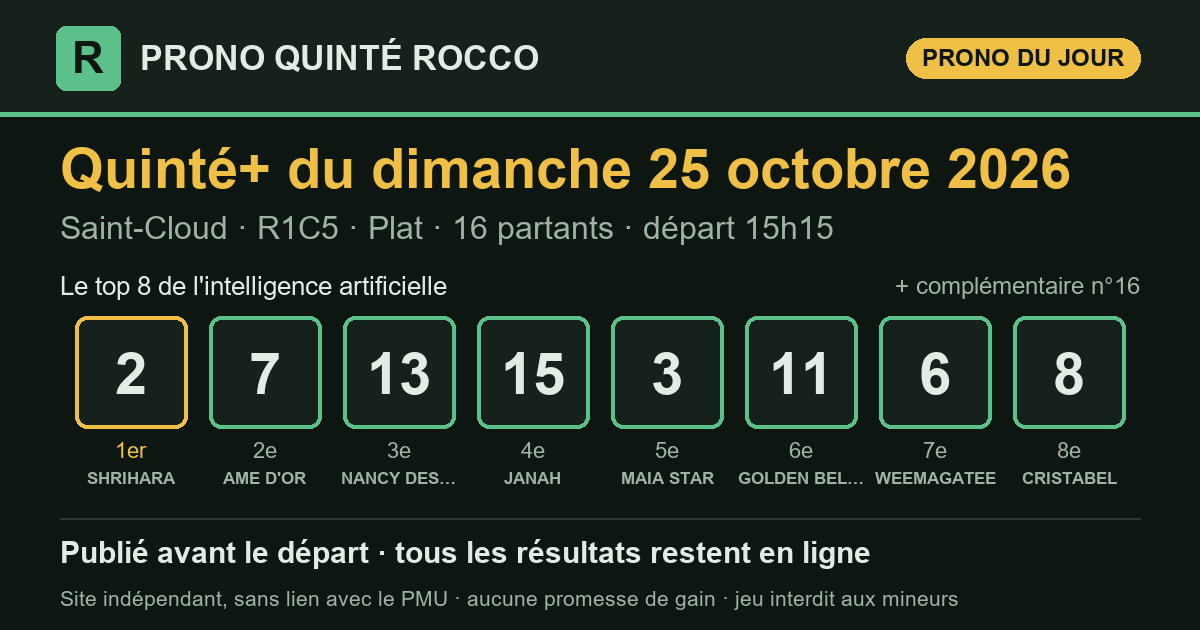
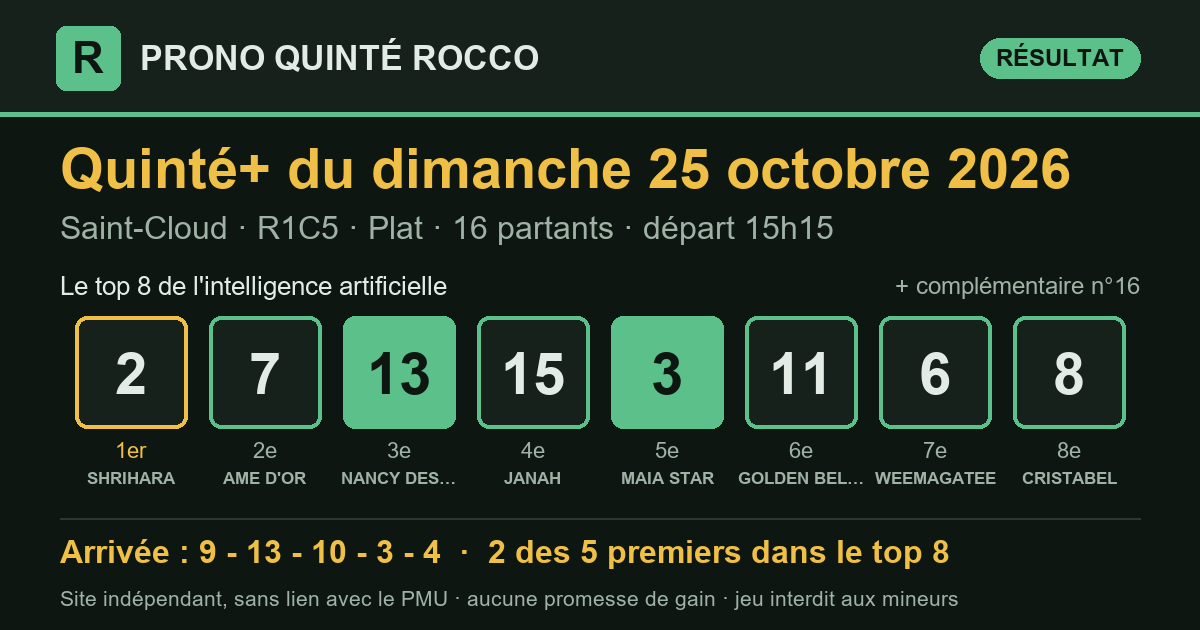
Prono Quinté+ 2026-10-25 Saint-Cloud R1C5 — publié le 25/10/2026 15:25 (heure de Paris)

diff --git a/index.html b/index.html
@@ -16,7 +16,7 @@
 <meta property="og:title" content="Pronostic Quinté+ du dimanche 25 octobre 2026 — Prono Quinté Rocco">
 <meta property="og:description" content="Le pronostic du Quinté+ par intelligence artificielle, publié avant le départ, avec tous les résultats et le rendement réel.">
 <meta property="og:url" content="https://prono-quinte-rocco.fr/">
-<meta property="og:image" content="https://prono-quinte-rocco.fr/partage/2026-10-25.png?v=82f0f066">
+<meta property="og:image" content="https://prono-quinte-rocco.fr/partage/2026-10-25.png?v=1134d1c6">
 <meta property="og:image:type" content="image/png">
 <meta property="og:image:width" content="1200">
 <meta property="og:image:height" content="630">
@@ -31,15 +31,15 @@
 </header>
 <main>
 <section class="une" aria-labelledby="t-jour">
-  <p class="surtitre">Quinté+ du jour</p>
+  <p class="surtitre">Dernier Quinté+</p>
   <h1 id="t-jour">Le prono du Quinté+, résultats compris</h1>
   <p class="chapo">Chaque matin, une intelligence artificielle classe les partants du
   Quinté+. Le classement est publié avant le départ, puis comparé à l'arrivée
   officielle. Tous les résultats restent en ligne, les bons comme les mauvais.</p>
   <article class="carte-course">
-  <div class="tete"><h2>Dimanche 25 octobre 2026</h2><span class="etat attente">arrivée en attente</span></div>
+  <div class="tete"><h2>Dimanche 25 octobre 2026</h2><span class="etat place">2 des 5 premiers dans le top 8</span></div>
   <p class="meta">Saint-Cloud · <strong>R1C5</strong> · Plat · 16 partants · lisibilité <span class="note" aria-label="note 2 sur 5"><i class="on"></i><i class="on"></i><i class=""></i><i class=""></i><i class=""></i></span> 2/5</p>
-  <ol class="partants" aria-label="Classement du prono"><li><span class="rang">1<sup>er</sup></span><span class="tapis ">2</span><span class="nom">SHRIHARA</span></li><li><span class="rang">2<sup>e</sup></span><span class="tapis ">7</span><span class="nom">AME D&#x27;OR</span></li><li><span class="rang">3<sup>e</sup></span><span class="tapis ">13</span><span class="nom">NANCY DES PLACES</span></li><li><span class="rang">4<sup>e</sup></span><span class="tapis ">15</span><span class="nom">JANAH</span></li><li><span class="rang">5<sup>e</sup></span><span class="tapis ">3</span><span class="nom">MAIA STAR</span></li><li><span class="rang">6<sup>e</sup></span><span class="tapis ">11</span><span class="nom">GOLDEN BELLE</span></li><li><span class="rang">7<sup>e</sup></span><span class="tapis ">6</span><span class="nom">WEEMAGATEE</span></li><li><span class="rang">8<sup>e</sup></span><span class="tapis ">8</span><span class="nom">CRISTABEL</span></li><li><span class="rang">compl.</span><span class="tapis creux">16</span><span class="nom">GAREYA</span></li></ol>
+  <ol class="partants" aria-label="Classement du prono"><li><span class="rang">1<sup>er</sup></span><span class="tapis ">2</span><span class="nom">SHRIHARA</span></li><li><span class="rang">2<sup>e</sup></span><span class="tapis ">7</span><span class="nom">AME D&#x27;OR</span></li><li><span class="rang">3<sup>e</sup></span><span class="tapis plein">13</span><span class="nom">NANCY DES PLACES</span></li><li><span class="rang">4<sup>e</sup></span><span class="tapis ">15</span><span class="nom">JANAH</span></li><li><span class="rang">5<sup>e</sup></span><span class="tapis plein">3</span><span class="nom">MAIA STAR</span></li><li><span class="rang">6<sup>e</sup></span><span class="tapis ">11</span><span class="nom">GOLDEN BELLE</span></li><li><span class="rang">7<sup>e</sup></span><span class="tapis ">6</span><span class="nom">WEEMAGATEE</span></li><li><span class="rang">8<sup>e</sup></span><span class="tapis ">8</span><span class="nom">CRISTABEL</span></li><li><span class="rang">compl.</span><span class="tapis creux">16</span><span class="nom">GAREYA</span></li></ol>
   <div class="pied-carte"><span>Analysé le 25/10 à 12:29 · en ligne le 25/10 à 12:32 · départ à 15:15 (heure de Paris)</span><span><a href="quinte/2026-10-25.html">Détail de la course</a></span></div>
 </article>
   <div class="legende"><span><span class="tapis plein petit">4</span> numéro dans les 5 premiers</span>
@@ -62,7 +62,7 @@
 </section>
 <section class="bilan" aria-labelledby="t-bilan">
   <h2 id="t-bilan">Le bilan depuis le 8 septembre 2026</h2>
-  <div class="tableau chiffres"><div class="case"><span class="gros ">74 %</span><span class="lib">des arrivants trouvés dans le top 8</span><span class="ref">un top 8 tiré au hasard : 51 %</span></div><div class="case"><span class="gros ">87 %</span><span class="lib">des gagnants présents dans le top 8</span><span class="ref"></span></div><div class="case"><span class="gros ">52 %</span><span class="lib">1er du prono placé</span><span class="ref">sur 46 Quintés</span></div><div class="case"><span class="gros perte">0,97 €</span><span class="lib">rendus pour 1 € joué placé sur le 1er</span><span class="ref">rapports officiels PMU</span></div><div class="case"><span class="gros perte">0,49 €</span><span class="lib">rendus pour 1 € joué en Quinté+ combiné top 8</span><span class="ref">56 combinaisons, rapports PMU.fr, sur 46 Quintés</span></div></div>
+  <div class="tableau chiffres"><div class="case"><span class="gros ">73 %</span><span class="lib">des arrivants trouvés dans le top 8</span><span class="ref">un top 8 tiré au hasard : 51 %</span></div><div class="case"><span class="gros ">85 %</span><span class="lib">des gagnants présents dans le top 8</span><span class="ref"></span></div><div class="case"><span class="gros ">52 %</span><span class="lib">1er du prono placé</span><span class="ref">sur 46 Quintés</span></div><div class="case"><span class="gros perte">0,97 €</span><span class="lib">rendus pour 1 € joué placé sur le 1er</span><span class="ref">rapports officiels PMU</span></div><div class="case"><span class="gros perte">0,48 €</span><span class="lib">rendus pour 1 € joué en Quinté+ combiné top 8</span><span class="ref">56 combinaisons, rapports PMU.fr, sur 47 Quintés</span></div></div>
   <p class="avertissement">Moins de 1 € rendu pour 1 € joué : suivre ce prono à la lettre fait <strong>perdre de l'argent</strong> sur cette période. Il sert à analyser une course, pas à promettre un gain.</p>
 </section>
 </main>

diff --git a/partants.html b/partants.html
@@ -35,39 +35,39 @@
     <p class="fiche-depart">Départ <b>15:15</b> <span>heure de Paris</span></p>
   </div>
   <p class="surtitre">Les pronostics ailleurs sur le web</p>
-  <div class="liens"><a class="lien-ext" href="https://www.turfoo.fr/programmes-courses/261025/reunion1-saint-cloud/course5-prix-de-l-elevage/pronostics-presse/" rel="noopener" target="_blank"><b>Les pronostics de la presse →</b><span>sur Turfoo (site extérieur)</span></a><a class="lien-ext" href="https://www.geny.com/programme/2026-10-25" rel="noopener" target="_blank"><b>Partants et pronostics →</b><span>programme du jour sur Geny (site extérieur)</span></a></div>
+  <div class="liens"><a class="lien-ext" href="https://www.turfoo.fr/programmes-courses/261025/" rel="noopener" target="_blank"><b>Les pronostics de la presse →</b><span>sur Turfoo (site extérieur)</span></a><a class="lien-ext" href="https://www.geny.com/programme/2026-10-25" rel="noopener" target="_blank"><b>Partants et pronostics →</b><span>programme du jour sur Geny (site extérieur)</span></a></div>
   <div class="liste-boite"><table class="liste-partants">
     <thead><tr><th>N°</th><th>Cheval</th><th class="cote"><span class="long">Cote du matin</span><span class="court">Cote</span></th>
     <th class="ia"><span class="long">Prono IA</span><span class="court">IA</span></th></tr></thead>
     <tbody><tr>
   <td><span class="tapis petit">1</span></td>
   <td><span class="cheval">AGILE</span><span class="sous">M.VELON · JM.BEGUIGNE</span></td>
-  <td class="cote num">23,0</td>
+  <td class="cote num">25,0</td>
   <td class="ia">—</td>
 </tr><tr>
   <td><span class="tapis petit">2</span></td>
   <td><span class="cheval">SHRIHARA</span><span class="sous">A.HAMELIN · C.FEY (S)</span></td>
-  <td class="cote num">6,8</td>
+  <td class="cote num">6,5</td>
   <td class="ia"><span class="etat place">1<sup>er</sup></span></td>
 </tr><tr>
   <td><span class="tapis petit">3</span></td>
   <td><span class="cheval">MAIA STAR</span><span class="sous">PC.BOUDOT · JPH .DUBOIS</span></td>
-  <td class="cote num">9,3</td>
+  <td class="cote num">8,9</td>
   <td class="ia"><span class="etat place">5<sup>e</sup></span></td>
 </tr><tr>
   <td><span class="tapis petit">4</span></td>
   <td><span class="cheval">AMERICAN GLORY</span><span class="sous">A.LEMAITRE · N.PERRET (S)</span></td>
-  <td class="cote num">17,0</td>
+  <td class="cote num">16,0</td>
   <td class="ia">—</td>
 </tr><tr>
   <td><span class="tapis petit">5</span></td>
   <td><span class="cheval">HASAPIKO</span><span class="sous">T.BACHELOT · S.WATTEL (S)</span></td>
-  <td class="cote num">30,0</td>
+  <td class="cote num">29,0</td>
   <td class="ia">—</td>
 </tr><tr>
   <td><span class="tapis petit">6</span></td>
   <td><span class="cheval">WEEMAGATEE</span><span class="sous">M.GRANDIN · J.ANDREU (S)</span></td>
-  <td class="cote num">21,0</td>
+  <td class="cote num">22,0</td>
   <td class="ia"><span class="etat place">7<sup>e</sup></span></td>
 </tr><tr>
   <td><span class="tapis petit">7</span></td>
@@ -77,7 +77,7 @@
 </tr><tr>
   <td><span class="tapis petit">8</span></td>
   <td><span class="cheval">CRISTABEL</span><span class="sous">O.ANDIGNE · A.COUETIL (S)</span></td>
-  <td class="cote num">9,4</td>
+  <td class="cote num">9,8</td>
   <td class="ia"><span class="etat place">8<sup>e</sup></span></td>
 </tr><tr>
   <td><span class="tapis petit">9</span></td>
@@ -87,12 +87,12 @@
 </tr><tr>
   <td><span class="tapis petit">10</span></td>
   <td><span class="cheval">BRITANIA</span><span class="sous">I.MENDIZABAL · F.ROHAUT (S)</span></td>
-  <td class="cote num">17,0</td>
+  <td class="cote num">18,0</td>
   <td class="ia">—</td>
 </tr><tr>
   <td><span class="tapis petit">11</span></td>
   <td><span class="cheval">GOLDEN BELLE</span><span class="sous">M.GUYON · A.FOUASSIER</span></td>
-  <td class="cote num">11,0</td>
+  <td class="cote num">12,0</td>
   <td class="ia"><span class="etat place">6<sup>e</sup></span></td>
 </tr><tr>
   <td><span class="tapis petit">12</span></td>
@@ -102,17 +102,17 @@
 </tr><tr>
   <td><span class="tapis petit">13</span></td>
   <td><span class="cheval">NANCY DES PLACES</span><span class="sous">E.HARDOUIN · C.FEY (S)</span></td>
-  <td class="cote num">9,5</td>
+  <td class="cote num">9,3</td>
   <td class="ia"><span class="etat place">3<sup>e</sup></span></td>
 </tr><tr>
   <td><span class="tapis petit">14</span></td>
   <td><span class="cheval">TEARDROP EXPLODES</span><span class="sous">F.VERON · C.BOUTIN (S)</span></td>
-  <td class="cote num">45,0</td>
+  <td class="cote num">46,0</td>
   <td class="ia">—</td>
 </tr><tr>
   <td><span class="tapis petit">15</span></td>
   <td><span class="cheval">JANAH</span><span class="sous">S.PASQUIER · CLEMENT &amp; HERMANS (S)</span></td>
-  <td class="cote num">9,4</td>
+  <td class="cote num">9,0</td>
   <td class="ia"><span class="etat place">4<sup>e</sup></span></td>
 </tr><tr>
   <td><span class="tapis petit">16</span></td>
@@ -122,7 +122,7 @@
 </tr></tbody>
   </table></div>
   <p class="meta">Le rang du prono IA est celui publié sur ce site. Sous chaque cheval : jockey · entraîneur. Partants et cotes : programme
-  officiel du PMU, lu le 25/10 à 12:32 (heure de Paris). NP = non-partant.</p>
+  officiel du PMU, lu le 25/10 à 15:25 (heure de Paris). NP = non-partant.</p>
 </section>
 </main>
 <footer class="pied">

diff --git a/quinte/2026-10-25.html b/quinte/2026-10-25.html
@@ -16,7 +16,7 @@
 <meta property="og:title" content="Pronostic Quinté+ du dimanche 25 octobre 2026 à Saint-Cloud — Prono Quinté Rocco">
 <meta property="og:description" content="Prono Quinté+ du dimanche 25 octobre 2026 (Saint-Cloud) : top 8, arrivée officielle et rapports PMU.fr.">
 <meta property="og:url" content="https://prono-quinte-rocco.fr/quinte/2026-10-25.html">
-<meta property="og:image" content="https://prono-quinte-rocco.fr/partage/2026-10-25.png?v=82f0f066">
+<meta property="og:image" content="https://prono-quinte-rocco.fr/partage/2026-10-25.png?v=1134d1c6">
 <meta property="og:image:type" content="image/png">
 <meta property="og:image:width" content="1200">
 <meta property="og:image:height" content="630">
@@ -35,11 +35,19 @@
   <h1>Pronostic Quinté+ du dimanche 25 octobre 2026</h1>
   <p class="chapo">Saint-Cloud · R1C5 · Plat · 16 partants</p>
   <article class="carte-course">
-  <div class="tete"><h2>Le prono : top 8 et complémentaire</h2><span class="etat attente">arrivée en attente</span></div>
+  <div class="tete"><h2>Le prono : top 8 et complémentaire</h2><span class="etat place">2 des 5 premiers dans le top 8</span></div>
   <p class="meta">Saint-Cloud · <strong>R1C5</strong> · Plat · 16 partants · lisibilité <span class="note" aria-label="note 2 sur 5"><i class="on"></i><i class="on"></i><i class=""></i><i class=""></i><i class=""></i></span> 2/5</p>
-  <ol class="partants" aria-label="Classement du prono"><li><span class="rang">1<sup>er</sup></span><span class="tapis ">2</span><span class="nom">SHRIHARA</span></li><li><span class="rang">2<sup>e</sup></span><span class="tapis ">7</span><span class="nom">AME D&#x27;OR</span></li><li><span class="rang">3<sup>e</sup></span><span class="tapis ">13</span><span class="nom">NANCY DES PLACES</span></li><li><span class="rang">4<sup>e</sup></span><span class="tapis ">15</span><span class="nom">JANAH</span></li><li><span class="rang">5<sup>e</sup></span><span class="tapis ">3</span><span class="nom">MAIA STAR</span></li><li><span class="rang">6<sup>e</sup></span><span class="tapis ">11</span><span class="nom">GOLDEN BELLE</span></li><li><span class="rang">7<sup>e</sup></span><span class="tapis ">6</span><span class="nom">WEEMAGATEE</span></li><li><span class="rang">8<sup>e</sup></span><span class="tapis ">8</span><span class="nom">CRISTABEL</span></li><li><span class="rang">compl.</span><span class="tapis creux">16</span><span class="nom">GAREYA</span></li></ol>
+  <ol class="partants" aria-label="Classement du prono"><li><span class="rang">1<sup>er</sup></span><span class="tapis ">2</span><span class="nom">SHRIHARA</span></li><li><span class="rang">2<sup>e</sup></span><span class="tapis ">7</span><span class="nom">AME D&#x27;OR</span></li><li><span class="rang">3<sup>e</sup></span><span class="tapis plein">13</span><span class="nom">NANCY DES PLACES</span></li><li><span class="rang">4<sup>e</sup></span><span class="tapis ">15</span><span class="nom">JANAH</span></li><li><span class="rang">5<sup>e</sup></span><span class="tapis plein">3</span><span class="nom">MAIA STAR</span></li><li><span class="rang">6<sup>e</sup></span><span class="tapis ">11</span><span class="nom">GOLDEN BELLE</span></li><li><span class="rang">7<sup>e</sup></span><span class="tapis ">6</span><span class="nom">WEEMAGATEE</span></li><li><span class="rang">8<sup>e</sup></span><span class="tapis ">8</span><span class="nom">CRISTABEL</span></li><li><span class="rang">compl.</span><span class="tapis creux">16</span><span class="nom">GAREYA</span></li></ol>
   <div class="pied-carte"><span>Analysé le 25/10 à 12:29 · en ligne le 25/10 à 12:32 · départ à 15:15 (heure de Paris)</span><span></span></div>
 </article>
+<section class="carte-course" aria-labelledby="t-arr">
+  <div class="tete"><h2 id="t-arr">Arrivée officielle</h2></div>
+  <div class="rangee"><span class="tapis creux" title="1er">9</span><span class="tapis plein" title="2e">13</span><span class="tapis creux" title="3e">10</span><span class="tapis plein" title="4e">3</span><span class="tapis creux" title="5e">4</span></div>
+  <div class="deux">
+    <div><h3>Ce qu'aurait rendu le prono</h3><dl class="kv"><dt>1 € placé sur le 1er (n°2)</dt><dd>rapport manquant</dd><dt>1 € gagnant sur le 1er</dt><dd>rapport manquant</dd><dt>Quinté+ combiné top 8 (mise 112 €)</dt><dd>0,00 €</dd><dt>dont</dt><dd>aucun gain</dd></dl></div>
+    <div><h3>Rapports officiels</h3><dl class="kv"><dt>e-Quinté+ Ordre (2 €)</dt><dd>54 960,60 €</dd><dt>e-Quinté+ Désordre (2 €)</dt><dd>711,60 €</dd><dt>e-Bonus 4sur5 (2 €)</dt><dd>20,40 €</dd><dt>e-Bonus 3 (2 €)</dt><dd>16,20 €</dd></dl></div>
+  </div>
+</section>
 </section>
 </main>
 <footer class="pied">

diff --git a/resultats.html b/resultats.html
@@ -39,8 +39,8 @@
     <tbody><tr>
   <td class="c-date"><a href="quinte/2026-10-25.html">25/10</a></td>
   <td class="c-course">Saint-Cloud<br><span class="meta">R1C5 · Plat</span></td>
-  <td data-label="Top 8 du prono"><div class="rangee"><span class="tapis petit">2</span><span class="tapis petit">7</span><span class="tapis petit">13</span><span class="tapis petit">15</span><span class="tapis petit">3</span><span class="tapis petit">11</span><span class="tapis petit">6</span><span class="tapis petit">8</span></div></td><td data-label="Arrivée"><span class="etat attente">en attente</span></td>
-  <td class="num" data-label="Trouvés">—</td><td data-label="1er du prono"><span class="etat attente">—</span></td><td class="mont" data-label="Quinté+ top 8 (mise 112 €)">—</td>
+  <td data-label="Top 8 du prono"><div class="rangee"><span class="tapis petit">2</span><span class="tapis petit">7</span><span class="tapis plein petit">13</span><span class="tapis petit">15</span><span class="tapis plein petit">3</span><span class="tapis petit">11</span><span class="tapis petit">6</span><span class="tapis petit">8</span></div></td><td data-label="Arrivée"><div class="rangee"><span class="tapis creux petit" title="1er">9</span><span class="tapis plein petit" title="2e">13</span><span class="tapis creux petit" title="3e">10</span><span class="tapis plein petit" title="4e">3</span><span class="tapis creux petit" title="5e">4</span></div></td>
+  <td class="num" data-label="Trouvés">2/5</td><td data-label="1er du prono"><span class="etat non">non placé</span></td><td class="mont perte" data-label="Quinté+ top 8 (mise 112 €)">0,00 €</td>
 </tr><tr>
   <td class="c-date"><a href="quinte/2026-10-24.html">24/10</a></td>
   <td class="c-course">Compiegne<br><span class="meta">R1C3 · Haies</span></td>
@@ -276,7 +276,7 @@
 </section>
 <section class="bilan" aria-labelledby="t-bilan">
   <h2 id="t-bilan">Le bilan depuis le 8 septembre 2026</h2>
-  <div class="tableau chiffres"><div class="case"><span class="gros ">74 %</span><span class="lib">des arrivants trouvés dans le top 8</span><span class="ref">un top 8 tiré au hasard : 51 %</span></div><div class="case"><span class="gros ">87 %</span><span class="lib">des gagnants présents dans le top 8</span><span class="ref"></span></div><div class="case"><span class="gros ">52 %</span><span class="lib">1er du prono placé</span><span class="ref">sur 46 Quintés</span></div><div class="case"><span class="gros perte">0,97 €</span><span class="lib">rendus pour 1 € joué placé sur le 1er</span><span class="ref">rapports officiels PMU</span></div><div class="case"><span class="gros perte">0,49 €</span><span class="lib">rendus pour 1 € joué en Quinté+ combiné top 8</span><span class="ref">56 combinaisons, rapports PMU.fr, sur 46 Quintés</span></div></div>
+  <div class="tableau chiffres"><div class="case"><span class="gros ">73 %</span><span class="lib">des arrivants trouvés dans le top 8</span><span class="ref">un top 8 tiré au hasard : 51 %</span></div><div class="case"><span class="gros ">85 %</span><span class="lib">des gagnants présents dans le top 8</span><span class="ref"></span></div><div class="case"><span class="gros ">52 %</span><span class="lib">1er du prono placé</span><span class="ref">sur 46 Quintés</span></div><div class="case"><span class="gros perte">0,97 €</span><span class="lib">rendus pour 1 € joué placé sur le 1er</span><span class="ref">rapports officiels PMU</span></div><div class="case"><span class="gros perte">0,48 €</span><span class="lib">rendus pour 1 € joué en Quinté+ combiné top 8</span><span class="ref">56 combinaisons, rapports PMU.fr, sur 47 Quintés</span></div></div>
   <p class="avertissement">Moins de 1 € rendu pour 1 € joué : suivre ce prono à la lettre fait <strong>perdre de l'argent</strong> sur cette période. Il sert à analyser une course, pas à promettre un gain.</p>
 </section>
 </main>
